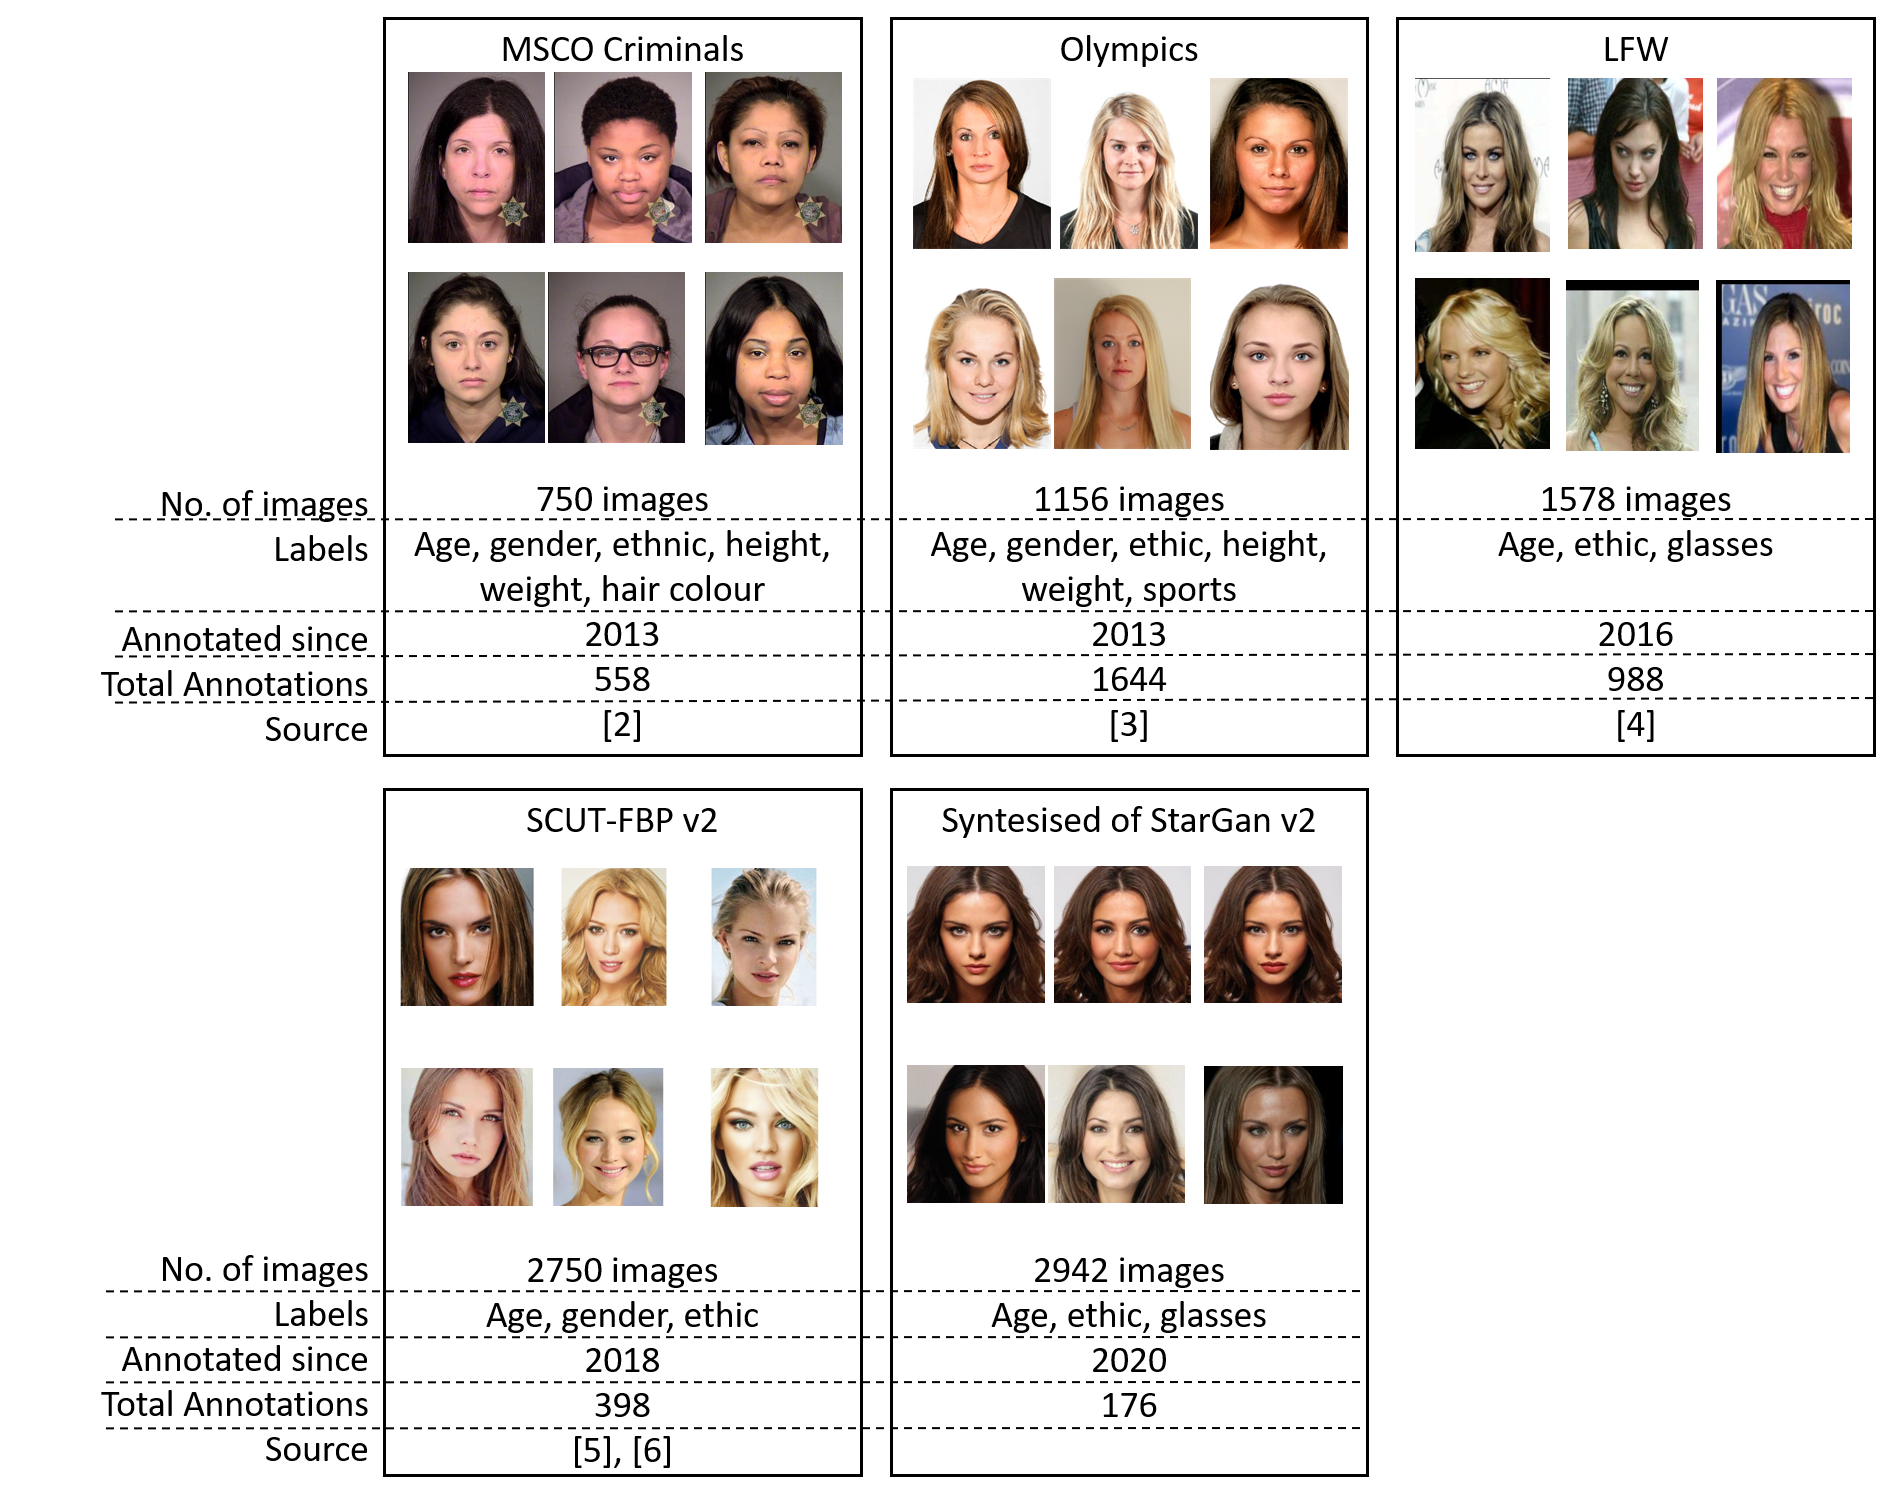
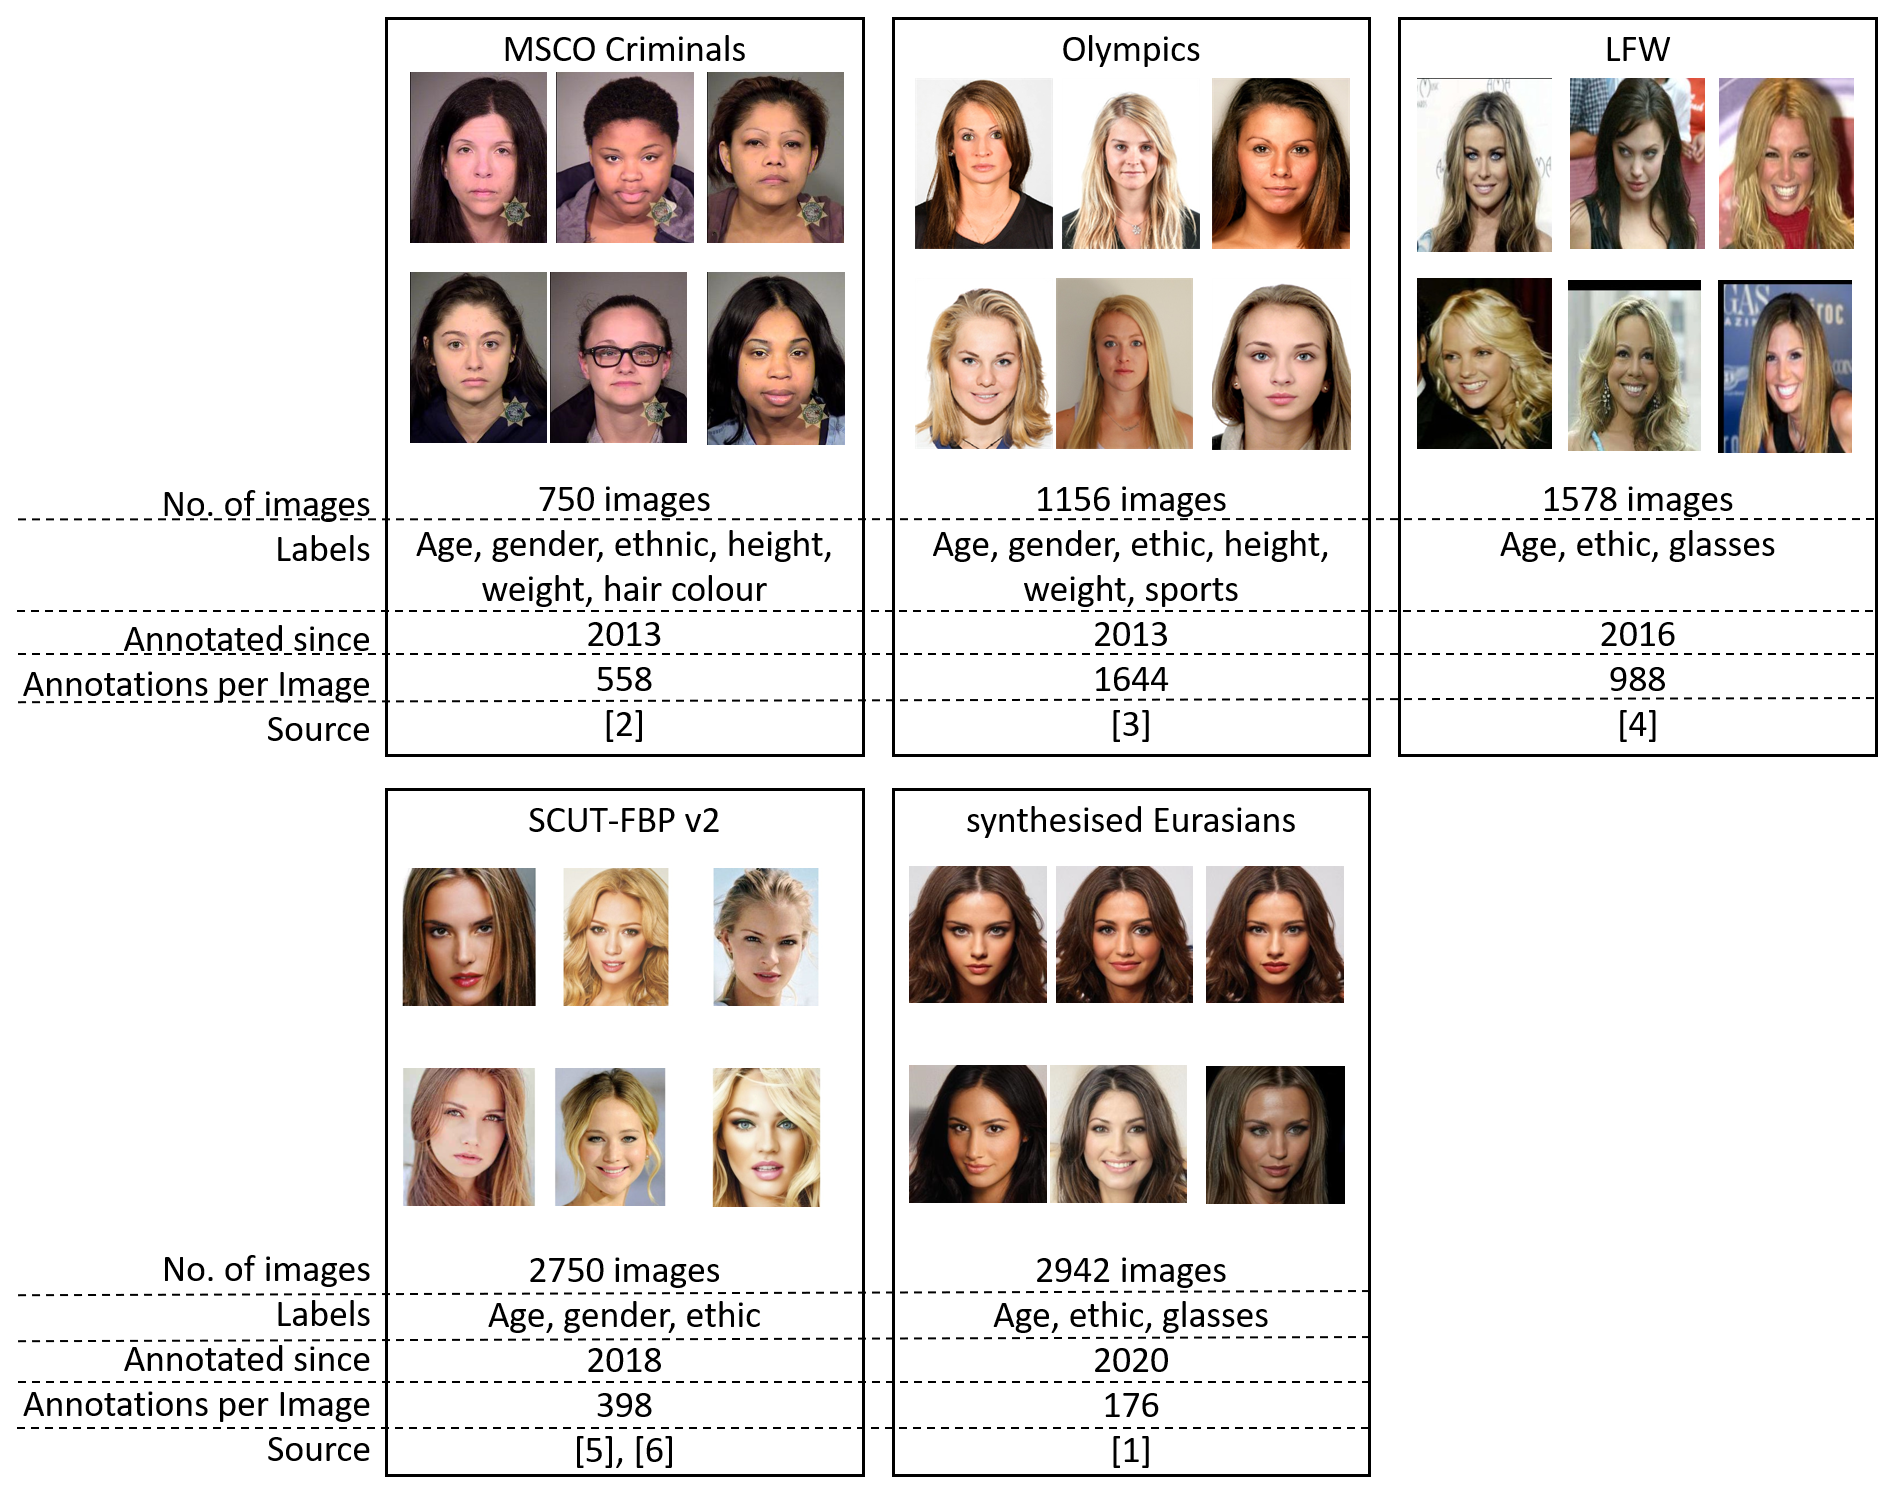
readme.md geaendert und aktualisiert mit neuen Bildern im img Verzeichnis

diff --git a/README.md b/README.md
@@ -16,14 +16,14 @@ faces whithin different ethnicities. With its modules
 the toolbox provides tools to analyse and visualize the essential information about given data and its annotation process.
  
 Secondly this Githup-Repository provides an extensive dataset of 9934 images from persons of different ethnicities 
-with individual social backgrounds. These images are labeled and already annotated in 8 years of surveys. Parts of
-the annotated images are generated with the StarGAN v.2 (developed of Choi et al [1]) to determine the influence of
-the biased view of annotators on aesthetics of persons from different ethnicities.
+with individual social backgrounds. These images are labeled and already annotated in 8 years of surveys with a total number 
+of 5,49 Million annotations. Parts of the annotated images are generated with the StarGAN v.2 (developed of Choi et al \[1\]) 
+to determine the influence of the biased view of annotators on aesthetics of persons from different ethnicities.
 
 Additionaly to this README the paper cited below gives detailed information about the toolbox and the dataset.  	
 
 ##Toolbox
-![Aesthetic Faces Toolbox](img/aestheticToolbox.png)
+![Aesthetic Faces Toolbox](img/aesthetic_toolbox.png)
 
 ###Dataset Administration
 ![Dataset Explorer](img/Dataset_Explorer.png)
@@ -75,5 +75,4 @@ isbn={978-989-758-402-2},
 [4]:	Huang, G.B., Mattar, M., Berg, T., Learned-Miller, E.: Labeled faces in the wild: A database forstudying face recognition in unconstrained environments (2008)
 [5]:	Xie, D., Liang, L., Jin, L., Xu, J., Li, M.: SCUT-FBP: A benchmark dataset for facial beauty perception. In: 2015 IEEE International Conference on Systems, Man, and Cybernetics, Kowloon Tong, Hong Kong, October 9-12, 2015. pp. 1821–1826. IEEE (2015), https://doi.org/10.1109/SMC.2015.319
 [6]:	Liang, L., Lin, L., Jin, L., Xie, D., Li, M.: Scut-fbp5500: a diverse benchmark dataset for multi-paradigm facial beauty prediction. In: 2018 24th International Conference on Pattern Recognition (ICPR). pp. 1598–1603. IEEE (2018)
-
 
